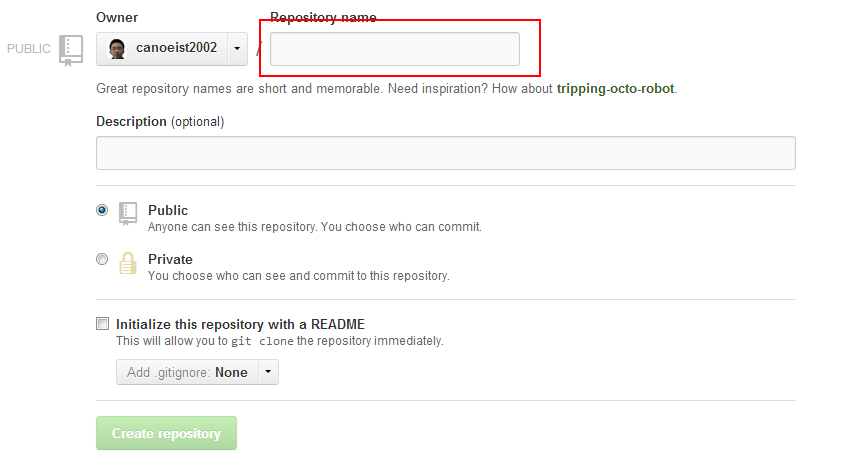
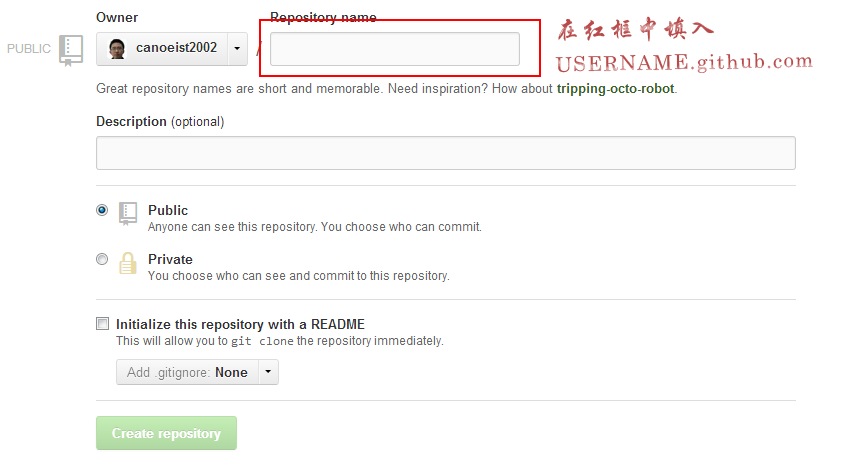
add some content to build-this-site-on-github

Changed region(s): [[0.6327, 0.0295, 0.8134, 0.0886], [0.6327, 0.1181, 0.934, 0.1477]]

diff --git a/_includes/themes/twitter/post.html b/_includes/themes/twitter/post.html
@@ -5,7 +5,7 @@
 <div class="row-fluid post-full">
   <div class="span12">
     <div class="date">
-      <span>{{ page.date | date_to_long_string }}</strong>
+      <span class="muted">updated: {{ page.date | date_to_long_string }}</strong>
     </div>
     <div class="content">
       {{ content }}

diff --git a/_posts/2013-03-23-build-this-site-on-github.md b/_posts/2013-03-23-build-this-site-on-github.md
@@ -1,0 +1,120 @@
+---
+layout: post
+title: "Build this site on Github"
+tagline: "如何创建本网站"
+description: "Jekyll Bootstrap Github"
+category: tutorial
+tags: []
+---
+{% include JB/setup %}
+
+## 一、入门
+
+我们可以使用 Jekyll 在 github 上建立站点，但是功能和界面全部都没有，还得要自己去做，而使用 [jekyllbootstrap](http://jekyllbootstrap.com/) 就非常的方便了，它集成了很多的功能和 [Bootstrap](http://twitter.github.com/bootstrap/) 来美化界面，就非常方便了。
+
+<p><span class="badge badge-important">1</span>　创建 Repository
+我们需要去 [Github](https://github.com/) 上创建一个新的 Repository，这个 Repository 的名称为 USERNAME.github.com，其中的 USERNAME 是你的 github 账号的名称。完成教程之后就可以通过 USERNAME.github.com 来访问了！</p>
+
+![创建新的 Repository](/images/tutorial/Create-a-new-repository-on-github.png)
+
+<p><span class="badge badge-important">2</span>　现在，你可以通过下面的命令来下载 jekyllbootstrap 了，并把它上传到你自己的 github 上面了。</p>
+
+    git clone https://github.com/plusjade/jekyll-bootstrap.git USERNAME.github.com
+    $ cd USERNAME.github.com
+    $ git remote set-url origin git@github.com:USERNAME/USERNAME.github.com.git
+    $ git push origin master
+
+<p><span class="badge badge-important">3</span>　大概等 10 分钟之后，你就可以通过使用 http://USERNAME.github.com 来访问你的自己的网站了。</p>
+
+## 二、本地运行
+
+我们可以在本地查看编辑的效果，如果满意的话，就可以上传到 github 上。
+
+<p><span class="badge badge-important">1</span>　首先，你需要安装 jekyll 。</p>
+
+    $ gem install jekyll
+
+<p><span class="badge badge-important">2</span>　然后，你可以运行命令：</p>
+
+    $ cd USERNAME.github.com 
+    $ jekyll --server
+
+这个时候，你就可以通过 http://localhost:4000/ 来访问你自己的本地站点了。
+
+## 三、与中文相关的问题
+
+你肯定是要在网站中输入与中文相关的内容的，但启动 server 的时候会出错下面的错误提示
+
+    Liquid Exception: incompatible character encodings: UTF-8 and GBK in post
+
+这个时候可以这样解决：
+
+<p><span class="badge badge-important">1</span>　首先，打开 jekyll 的 lib 文件，<span class="text-error">convertible.rb </span>，我用的是 windows 7 系统，在 C:\RailsInstaller\Ruby1.9.3\lib\ruby\gems\1.9.1\gems\jekyll-0.12.1\lib\jekyll 这个目录下面。</p>
+
+<p><span class="badge badge-important">2</span>　然后将该文件的 28 行：</p>
+
+    self.content = File.read(File.join(base, name))
+
+<p>改成：</p>
+
+    self.content = File.read(File.join(base, name), :encoding => "utf-8")
+
+## 四、自定义网站基本信息
+
+打开目录中的 _config.yml 文件，会看到如下的内容：
+
+    title : Jekyll Bootstrap
+    tagline: Site Tagline
+    author :
+      name : Name Lastname
+      email : blah@email.test
+      github : username
+      twitter : username
+      feedburner : feedname
+
+从字面意识上就很容易理解了，其中的那个 tagline 就是大标题后面跟着的那个字体稍微淡点的副标题。再下面一点，有个
+
+    production_url : http://username.github.com
+
+把 username 改成你自己的名字就行了。
+
+## 五、发表一个 Post
+
+<p><span class="badge badge-important">1</span>　使用如下命令来创建一个 Post：</p>
+
+   $ rake post title = "Hello world"
+
+<p>该命令会自动的在 _posts 目录下面生成一个以日期开头的文件，就样这样的格式 2013-03-23-hello-world.md ，这种 md 文件可以使用 Markdown 的方法来编辑，也可以使用 HTML 格式来编辑，非常方便。</p>
+
+<p><span class="badge badge-important">2</span>　设置文件头，使用你喜欢的文本编辑器来打开文件，我用的是 sublime 这款免费、功能强大的编辑器，首先修改文件头里的信息：</p>
+
+    ---
+    layout: post
+    title: "Build this site on Github"
+    description: ""
+    category: 
+    tags: []
+    ---
+    {% include JB/setup %}
+
+根据需要，加上你想上的内容，category 是该 Post 属于什么类别，tags 当然就是标签了，推荐使用英文来完成。
+
+<p><span class="badge badge-important">3</span>　编辑文件，你可以在里面输入任何的内容了，使用 markdown 格式和 HTML 格式都可以，混合写都行。你可以通过本地的 Jekyll 站点来查看效果。</p>
+
+## 六、上传到 github
+
+<p><span class="badge badge-important">1</span>　发布内容，可以使用 git 的命令来完成，和使用 git 管理其它的开源项目是一样的：</p>
+
+    $ git add .
+    $ git commit -m "Add new content"
+    $ git push origin master
+
+<p><span class="badge badge-important">2</span>　现在，你就可以通过 USERNAME.github.com 来访问了，内容等你上传完就会更新了，不用第一次建站需要等待十分钟左右的时间了，看到的效果和你在本地看到的效果是一样的。</p>
+
+
+## 参考资料
+
+* Jekyll [Github 站点](https://github.com/mojombo/jekyll)
+* Jekyllbootstrap [Jekyllbootstrap 主页](http://jekyllbootstrap.com/)
+* Jekyllbootstrap [Github 站点](https://github.com/plusjade/jekyll-bootstrap)
+* Markdown [Markdown 语法](http://daringfireball.net/projects/markdown/syntax)

diff --git a/index.md b/index.md
@@ -10,4 +10,4 @@ tagline: 笔记
   <a href="about.html" class="btn btn-large btn-primary">个人简历</a>
 </div>
 
-本网站的建站[教程](/tutorial/2013/03/22/build-this-on-github/)！
+查看本网站的建站[教程](/tutorial/build-this-site-on-github)！！
